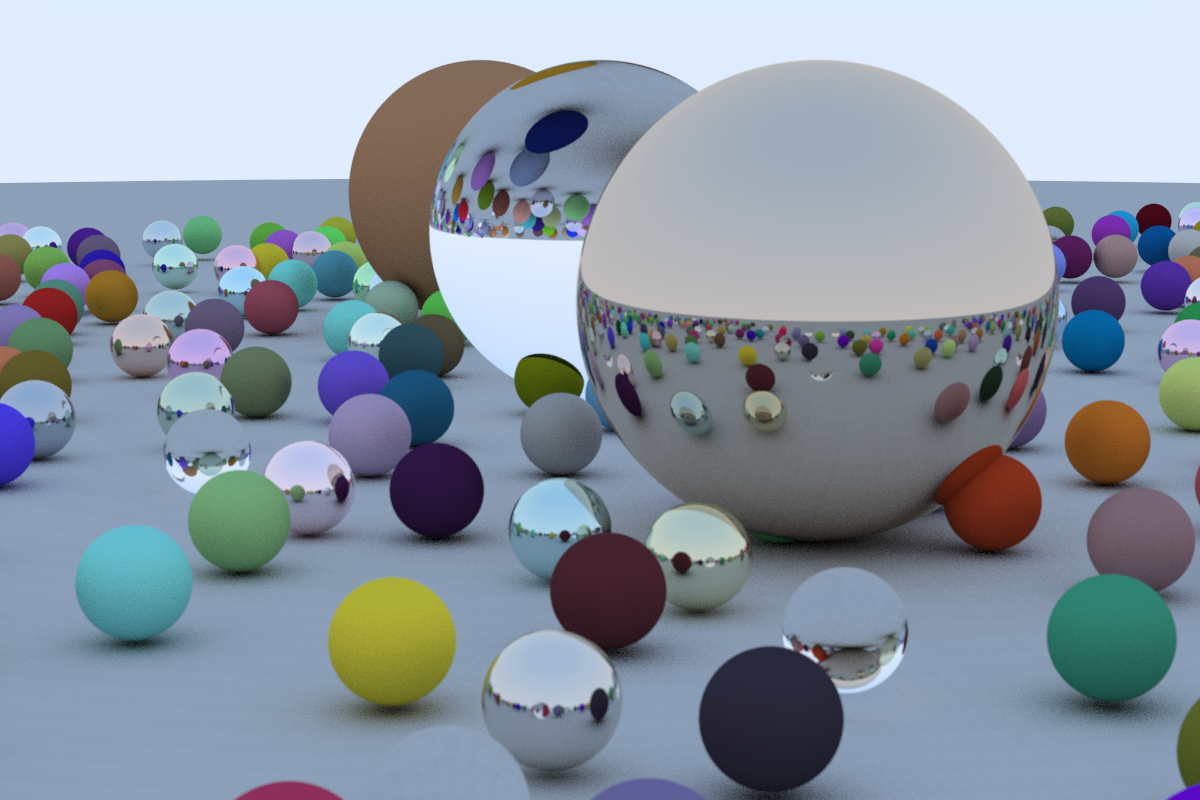
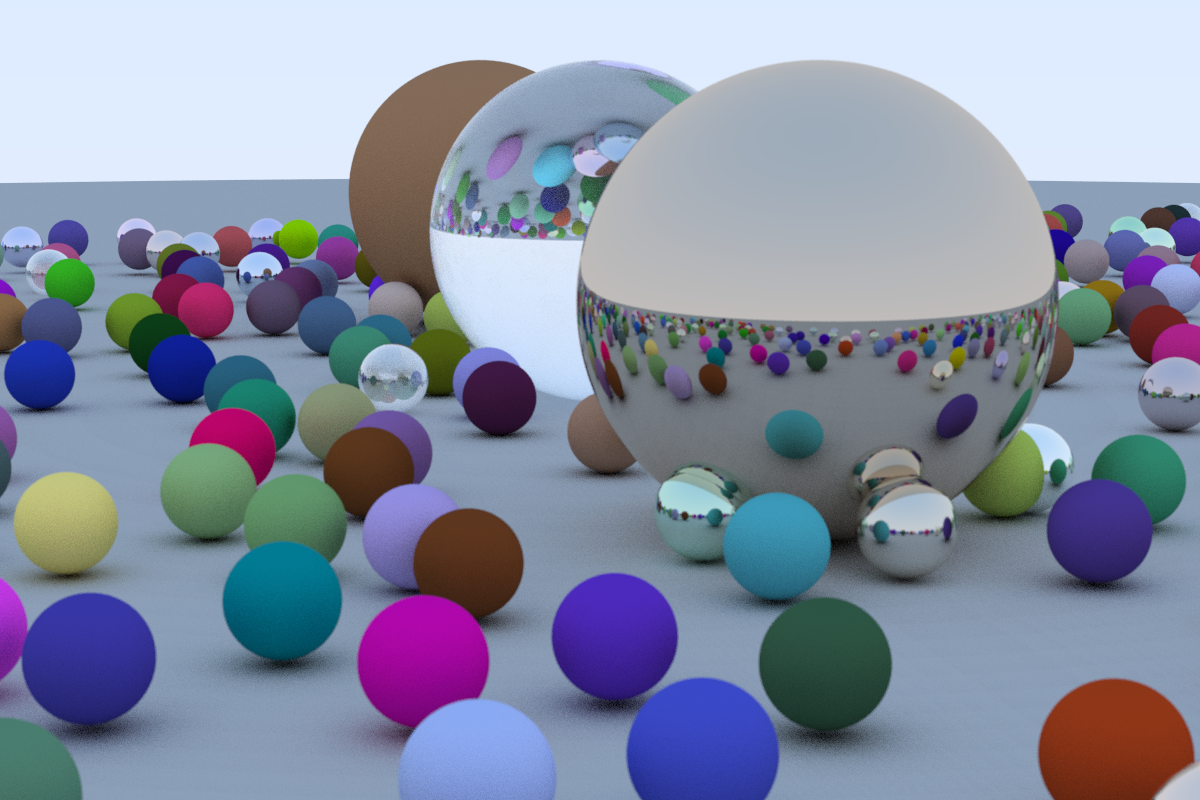
Add fresnel.

diff --git a/src/material/dielectric.cpp b/src/material/dielectric.cpp
@@ -1,8 +1,17 @@
 #include <yart/material/dielectric.h>
+#include <cmath>
+#include <random>
 #include "../util/rayhit.h"
 
 namespace yart
 {
+
+static inline float _schlick_fresnel(float cosine, float rindex)
+{
+    float r0 = (1.0f - rindex) / (1.0f + rindex);
+    r0 = r0 * r0;
+    return r0 + (1.0f - r0) * std::pow((1.0f - cosine), 5);
+}
 
 bool Dielectric::scatter(const Eigen::Vector3f& rayin,
                          const Eigen::Vector3f& hitpt,
@@ -11,25 +20,38 @@ bool Dielectric::scatter(const Eigen::Vector3f& rayin,
                          Eigen::Array3f& attenuation) const
 {
     attenuation = Eigen::Array3f::Ones();
+
     Eigen::Vector3f outward_normal;
-    float ni_over_nt;
+    float ni_over_nt, cosine, reflect_prob;
     if (rayin.dot(normal) > 0.0f) { // solid to air
         outward_normal = -normal;
         ni_over_nt = rindex;
+        cosine = rindex * rayin.normalized().dot(normal);
     }
     else { // air to solid
         outward_normal = normal;
         ni_over_nt = 1.0f / rindex;
+        cosine = -rayin.normalized().dot(normal);
     }
+
     auto refracted = refract(rayin, outward_normal.normalized(), ni_over_nt);
     if (refracted.has_value()) {
-        rayout = *refracted;
-        return true;
+        reflect_prob = _schlick_fresnel(cosine, rindex);
+        std::random_device rd;
+        std::minstd_rand rd_gen(rd());
+        std::uniform_real_distribution<> rd_number(0.0f, 1.0f);
+        if (rd_number(rd_gen) < reflect_prob) { // fresnel
+            rayout = reflect(rayin, normal.normalized());
+        }
+        else { // transmission
+            rayout = *refracted;
+        }
     }
-    else {
+    else { // total reflection
         rayout = reflect(rayin, normal.normalized());
-        return false;
     }
+
+    return true;
 }
 
 } // namespace yart
